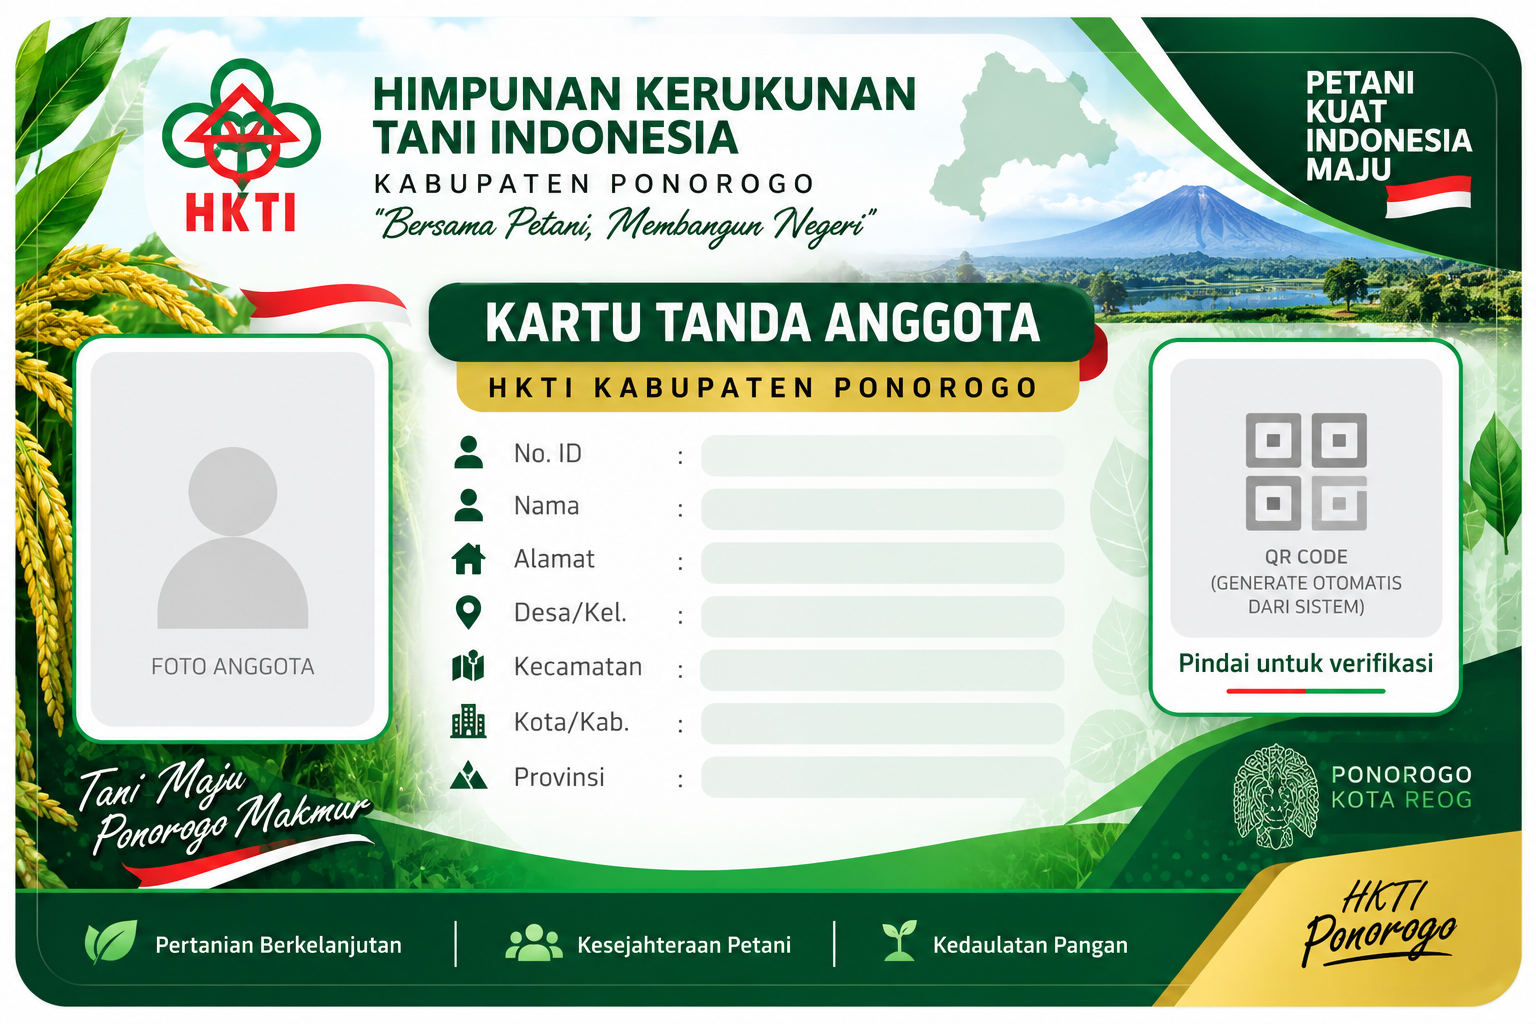
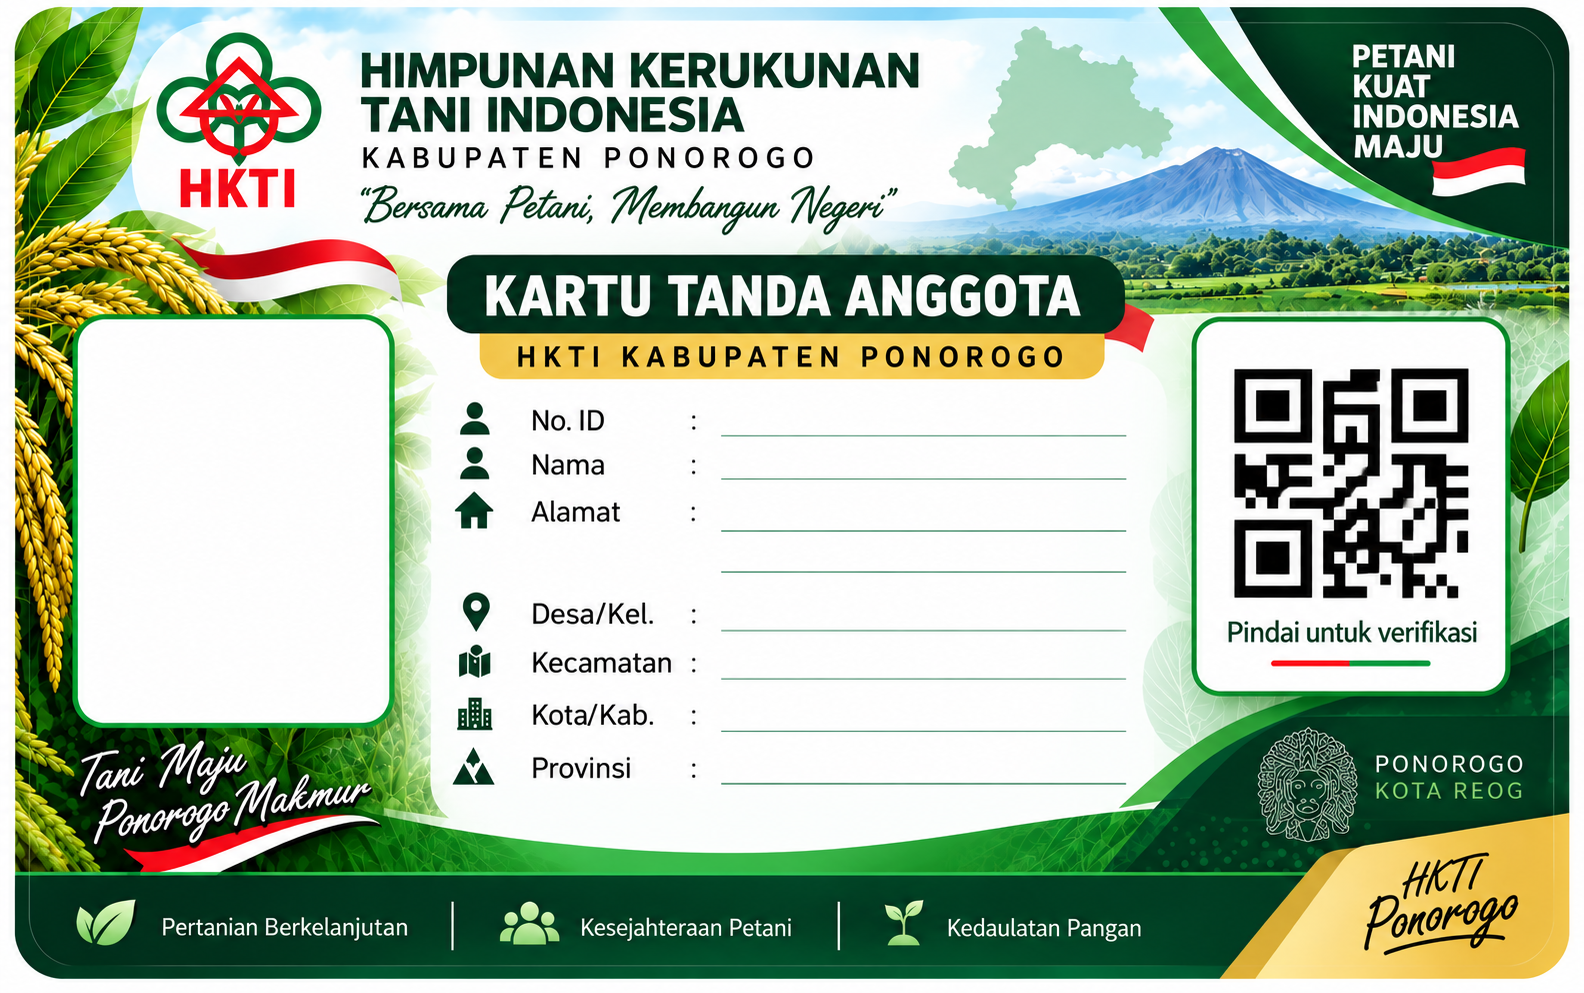
KTA: background baru + penempatan presisi (master coordinate system)
- Ganti background dgn desain form baru (1584×993) — natural size dibaca
  & dijadikan SATU master coordinate system (canvas 1584×993).
- Foto/value/QR ditempel pada koordinat pixel TETAP hasil pengukuran
  langsung dari background (bukan tebak breakpoint). Label/ikon/titik
  dua/garis dibiarkan (sudah ada di background).
- Foto: object-fit cover di dalam bingkai (portrait/landscape/square
  tidak distorsi).
- Value: digambar di atas garis; Alamat multi-baris 2–3 baris, font
  mengecil bertahap (28→20), TANPA ellipsis kecuali >3 baris ekstrem;
  tidak menabrak baris Desa/QR.
- QR: di-generate dari verifyUrl anggota, square 1:1, background putih +
  quiet-zone, menutup QR contoh pada background; label 'Pindai untuk
  verifikasi' tidak digambar ulang.
- Tambah mode HKTI.CARD_DEBUG (default false) → outline bounding box
  utk fine-tuning posisi.
- Satu fungsi cardPNG (render pada master lalu di-scale utuh) →
  Preview = PNG = Print identik. Data/DB tidak diubah.

Claude-Session: https://claude.ai/code/session_01WJKYCj2ra2QYJaKBnzkCE4

diff --git a/assets/js/app.js b/assets/js/app.js
@@ -183,11 +183,13 @@
       return Object.keys(map).map(function(k){return map[k];}).sort(function(a,b){return a.id.localeCompare(b.id);});},
     mergedFind:function(id){id=(id||'').trim().toUpperCase();return this.merged().find(function(m){
       return m.id.toUpperCase()===id||m.nia===id||m.nia.replace(/\D/g,'')===id.replace(/\D/g,'');});},
-    // Render Kartu Tanda Anggota: background desain (template) + foto + data + QR
-    // digambar dinamis di atasnya. Satu fungsi dipakai Preview, Unduh PNG, & Cetak
-    // agar hasil identik. Koordinat mengikuti template 1536×1024 (assets/img/kta-bg.png).
+    // Render Kartu Tanda Anggota memakai SATU master coordinate system yang sama
+    // dgn ukuran ASLI background (assets/img/kta-bg.png = 1584×993). Label, ikon,
+    // titik dua, garis SUDAH ada di background — kita hanya menempel FOTO, VALUE,
+    // dan QR pada koordinat pixel tetap. Satu fungsi → Preview = Unduh PNG = Cetak.
+    CARD_DEBUG:false, // set true utk menampilkan kotak bounding (fine-tuning posisi)
     cardPNG:function(m,cb){
-      var self=this,W=1536,H=1024,c=document.createElement('canvas');c.width=W;c.height=H;
+      var self=this,W=1584,H=993,c=document.createElement('canvas');c.width=W;c.height=H;
       var g=c.getContext('2d');
       function rr(x,y,w,h,r){g.beginPath();g.moveTo(x+r,y);g.arcTo(x+w,y,x+w,y+h,r);g.arcTo(x+w,y+h,x,y+h,r);g.arcTo(x,y+h,x,y,r);g.arcTo(x,y,x+w,y,r);g.closePath();}
       function fit(txt,x,cy,maxW){ // teks satu baris, mengecil otomatis agar muat pil
@@ -221,77 +223,62 @@
         g.fillStyle='#15321d';g.textAlign='left';g.textBaseline='middle';
         for(var i=0;i<lines.length;i++)g.fillText(lines[i],x,y0+i*lh);
       }
+      // ==== KOORDINAT MASTER (px, pada 1584×993) — diukur dari background asli ====
+      var FOTO={x:92,y:321,w:296,h:396,r:22};          // bingkai foto (isi penuh)
+      var VALX=721, VALMAXW=1126-721;                 // kolom value: x mulai & lebar
+      var ROWY={id:435,nama:478,desa:630,kec:678,kota:730,prov:783}; // baseline garis
+      var ADDR={cy:551,top:508,bot:600};               // area Alamat (2 garis: 530 & 571)
+      var QR={cx:1332,cy:483,size:256,maskX:1198,maskY:349,maskW:304,maskH:268};
+      function dbg(x,y,w,h,col){if(!self.CARD_DEBUG)return;g.save();g.strokeStyle=col;g.lineWidth=2;g.strokeRect(x,y,w,h);g.restore();}
+      function valLine(txt,cy){ // 1 baris nilai, baseline di atas garis
+        txt=String((txt==null||txt===''||txt==='-')?'-':txt);var sz=30;
+        do{g.font='700 '+sz+'px "Plus Jakarta Sans",system-ui,sans-serif';if(g.measureText(txt).width<=VALMAXW)break;sz--;}while(sz>20);
+        if(g.measureText(txt).width>VALMAXW){while(txt.length>2&&g.measureText(txt+'…').width>VALMAXW)txt=txt.slice(0,-1);txt+='…';}
+        g.fillStyle='#123f28';g.textAlign='left';g.textBaseline='alphabetic';g.fillText(txt,VALX,cy);
+      }
       function paint(){
         g.clearRect(0,0,W,H);
         if(bg&&bg.width)g.drawImage(bg,0,0,W,H);else{g.fillStyle='#0f3d1e';g.fillRect(0,0,W,H);}
-        // ---- FOTO anggota: pas di dalam bingkai putih (tidak melebihi frame) ----
-        if(photo&&photo.width){var px=104,py=360,pw=272,ph=360;
-          var s=Math.max(pw/photo.width,ph/photo.height),dw=photo.width*s,dh=photo.height*s;
-          g.save();rr(px,py,pw,ph,20);g.clip();g.drawImage(photo,px+(pw-dw)/2,py+(ph-dh)/2,dw,dh);g.restore();}
-        // ===== DATA anggota — ENGINE DINAMIS =====
-        // Label/pil bawaan tercetak di template pada posisi TETAP → tidak bisa
-        // memuat Alamat 3 baris. Solusi akar: tutup kolom data dgn panel putih
-        // (area ini memang sudah putih), lalu gambar ulang seluruh baris secara
-        // dinamis. Baris Alamat tingginya OTOMATIS & mendorong baris di bawahnya.
+        // ---- FOTO: object-fit cover di dalam bingkai (tidak stretch/gepeng) ----
+        if(photo&&photo.width){
+          var s=Math.max(FOTO.w/photo.width,FOTO.h/photo.height),dw=photo.width*s,dh=photo.height*s;
+          g.save();rr(FOTO.x,FOTO.y,FOTO.w,FOTO.h,FOTO.r);g.clip();
+          g.drawImage(photo,FOTO.x+(FOTO.w-dw)/2,FOTO.y+(FOTO.h-dh)/2,dw,dh);g.restore();
+        }
+        dbg(FOTO.x,FOTO.y,FOTO.w,FOTO.h,'#e11');
+        // ---- VALUE data (label/ikon/titik dua/garis sudah ada di background) ----
+        valLine(m.nia,ROWY.id);          dbg(VALX,ROWY.id-30,VALMAXW,38,'#06c');
+        valLine(m.nama,ROWY.nama);       dbg(VALX,ROWY.nama-30,VALMAXW,38,'#06c');
+        valLine(m.desa,ROWY.desa);       dbg(VALX,ROWY.desa-30,VALMAXW,38,'#06c');
+        valLine(m.kecamatan,ROWY.kec);   dbg(VALX,ROWY.kec-30,VALMAXW,38,'#06c');
+        valLine('Kab. Ponorogo',ROWY.kota); dbg(VALX,ROWY.kota-30,VALMAXW,38,'#06c');
+        valLine('Jawa Timur',ROWY.prov); dbg(VALX,ROWY.prov-30,VALMAXW,38,'#06c');
+        // ---- ALAMAT: multi-baris (maks 3), kecilkan font bertahap, TANPA ellipsis dini ----
         (function(){
-          var oCys=[455,509,562,616,670,723,776]; // posisi ikon asli (utk di-blit)
-          var rows=[['No. ID',m.nia],['Nama',m.nama],
-            ['Alamat',(m.alamat&&m.alamat!=='-')?m.alamat:'-'],
-            ['Desa/Kel.',m.desa||'-'],['Kecamatan',m.kecamatan||'-'],
-            ['Kota/Kab.','Kab. Ponorogo'],['Provinsi','Jawa Timur']];
-          var n=rows.length,ai=2;
-          // panel putih menutup baris bawaan template
-          g.save();rr(430,424,720,372,26);g.fillStyle='#ffffff';g.fill();g.restore();
-          var xIcon=467,xLabel=511,xColon=684,xVal=722,pillL=701,pillR=1147,valMaxW=pillR-18-xVal;
-          var topY=436,botY=786,availH=botY-topY;
-          // Alamat: cari font terbesar (30→20) yang muat ≤3 baris; ellipsis pilihan akhir
-          var aFont=30,aLines;
-          for(;aFont>=20;aFont-=2){g.font='700 '+aFont+'px "Plus Jakarta Sans",system-ui,sans-serif';
-            aLines=wrapAt(rows[ai][1],valMaxW);if(aLines.length<=3)break;}
-          if(aLines.length>3){aLines=aLines.slice(0,3);var lt=aLines[2];
-            while(lt.length>1&&g.measureText(lt+'…').width>valMaxW)lt=lt.slice(0,-1);aLines[2]=lt+'…';}
-          var aLh=Math.round(aFont*1.14);
-          // tinggi tiap baris (Alamat = tinggi dinamis)
-          var hs=[],sumH=0;for(var i=0;i<n;i++){hs[i]=(i===ai)?Math.max(46,aLines.length*aLh+16):46;sumH+=hs[i];}
-          var gap=(availH-sumH)/(n+1);
-          if(gap<4){var sc=(availH-4*(n+1))/sumH;for(i=0;i<n;i++)hs[i]*=sc;gap=4;}
-          // render baris
-          var y=topY+gap;
-          for(i=0;i<n;i++){
-            var h=hs[i],yc=y+h/2;
-            var ph=(i===ai)?h-10:38;                       // tinggi pil
-            g.fillStyle='#eef3ef';rr(pillL,yc-ph/2,pillR-pillL,ph,16);g.fill(); // pil nilai
-            var ih=Math.min(46,h-4);                        // ikon (blit dari template)
-            if(bg&&bg.width){try{g.drawImage(bg,445,oCys[i]-25,48,50,xIcon-ih/2,yc-ih/2,ih,ih*50/48);}catch(e){}}
-            g.fillStyle='#17492a';g.textAlign='left';g.textBaseline='middle';
-            var lsz=27;g.font='600 27px "Plus Jakarta Sans",system-ui,sans-serif';
-            while(lsz>20&&g.measureText(rows[i][0]).width>xColon-8-xLabel){lsz--;g.font='600 '+lsz+'px "Plus Jakarta Sans",system-ui,sans-serif';}
-            g.fillText(rows[i][0],xLabel,yc);
-            g.font='600 27px "Plus Jakarta Sans",system-ui,sans-serif';g.fillText(':',xColon,yc); // label + titik dua
-            if(i===ai){                                     // Alamat: multi-baris
-              g.fillStyle='#15321d';g.font='700 '+aFont+'px "Plus Jakarta Sans",system-ui,sans-serif';
-              var y0=yc-(aLines.length-1)*aLh/2;
-              for(var k=0;k<aLines.length;k++)g.fillText(aLines[k],xVal,y0+k*aLh);
-            }else fit(rows[i][1],xVal,yc,valMaxW);           // nilai 1 baris (auto-shrink)
-            y+=h+gap;
-          }
+          var txt=(m.alamat&&m.alamat!=='-')?m.alamat:'-',aFont=28,lines;
+          for(;aFont>=20;aFont-=1){g.font='700 '+aFont+'px "Plus Jakarta Sans",system-ui,sans-serif';
+            lines=wrapAt(txt,VALMAXW);if(lines.length<=3)break;}
+          if(lines.length>3){lines=lines.slice(0,3);var lt=lines[2];
+            while(lt.length>1&&g.measureText(lt+'…').width>VALMAXW)lt=lt.slice(0,-1);lines[2]=lt+'…';}
+          var lh=Math.round(aFont*1.18),y0=ADDR.cy-(lines.length-1)*lh/2;
+          g.fillStyle='#123f28';g.textAlign='left';g.textBaseline='middle';
+          for(var i=0;i<lines.length;i++)g.fillText(lines[i],VALX,y0+i*lh);
+          dbg(VALX,ADDR.top,VALMAXW,ADDR.bot-ADDR.top,'#f80');
         })();
-        // ---- QR: panel putih (quiet-zone) + QR 1:1, EC tinggi, menutup placeholder ----
+        // ---- QR: generate asli, square 1:1, background putih + quiet-zone ----
         function finish(){cb(c.toDataURL('image/png'));}
-        var qsz=186,qcx=1287,qcy=506,qpad=22,pnl=qsz+qpad*2,pnx=qcx-pnl/2,pny=qcy-pnl/2;
         if(window.QRCode){
           var box=document.createElement('div');box.style.cssText='position:absolute;left:-9999px;top:0';document.body.appendChild(box);
-          try{new QRCode(box,{text:self.qrText(m),width:qsz,height:qsz,colorDark:'#0f3d1e',colorLight:'#ffffff',correctLevel:QRCode.CorrectLevel.Q});}catch(e){}
+          try{new QRCode(box,{text:self.verifyUrl(m.id),width:QR.size,height:QR.size,colorDark:'#0f3d1e',colorLight:'#ffffff',correctLevel:QRCode.CorrectLevel.M});}catch(e){}
           setTimeout(function(){
             var qc=box.querySelector('canvas')||box.querySelector('img');
-            // panel putih dgn bayangan halus → menutup placeholder QR + caption, sekaligus quiet-zone
-            g.save();g.shadowColor='rgba(18,50,25,.16)';g.shadowBlur=16;g.shadowOffsetY=4;
-            g.fillStyle='#ffffff';rr(pnx,pny,pnl,pnl,20);g.fill();g.restore();
-            g.strokeStyle='rgba(15,61,30,.12)';g.lineWidth=1.5;rr(pnx,pny,pnl,pnl,20);g.stroke();
-            if(qc){g.imageSmoothingEnabled=false;try{g.drawImage(qc,qcx-qsz/2,qcy-qsz/2,qsz,qsz);}catch(e){}g.imageSmoothingEnabled=true;}
+            // panel putih menutup QR contoh pada background + jadi quiet-zone
+            g.fillStyle='#ffffff';rr(QR.maskX,QR.maskY,QR.maskW,QR.maskH,18);g.fill();
+            if(qc){g.imageSmoothingEnabled=false;try{g.drawImage(qc,QR.cx-QR.size/2,QR.cy-QR.size/2,QR.size,QR.size);}catch(e){}g.imageSmoothingEnabled=true;}
+            dbg(QR.cx-QR.size/2,QR.cy-QR.size/2,QR.size,QR.size,'#e11');
             document.body.removeChild(box);finish();
           },60);
-        } else finish();
+        } else { g.fillStyle='#ffffff';rr(QR.maskX,QR.maskY,QR.maskW,QR.maskH,18);g.fill();finish(); }
       }
       var bg=null,photo=null,pending=1;
       function done(){if(!--pending)paint();}
